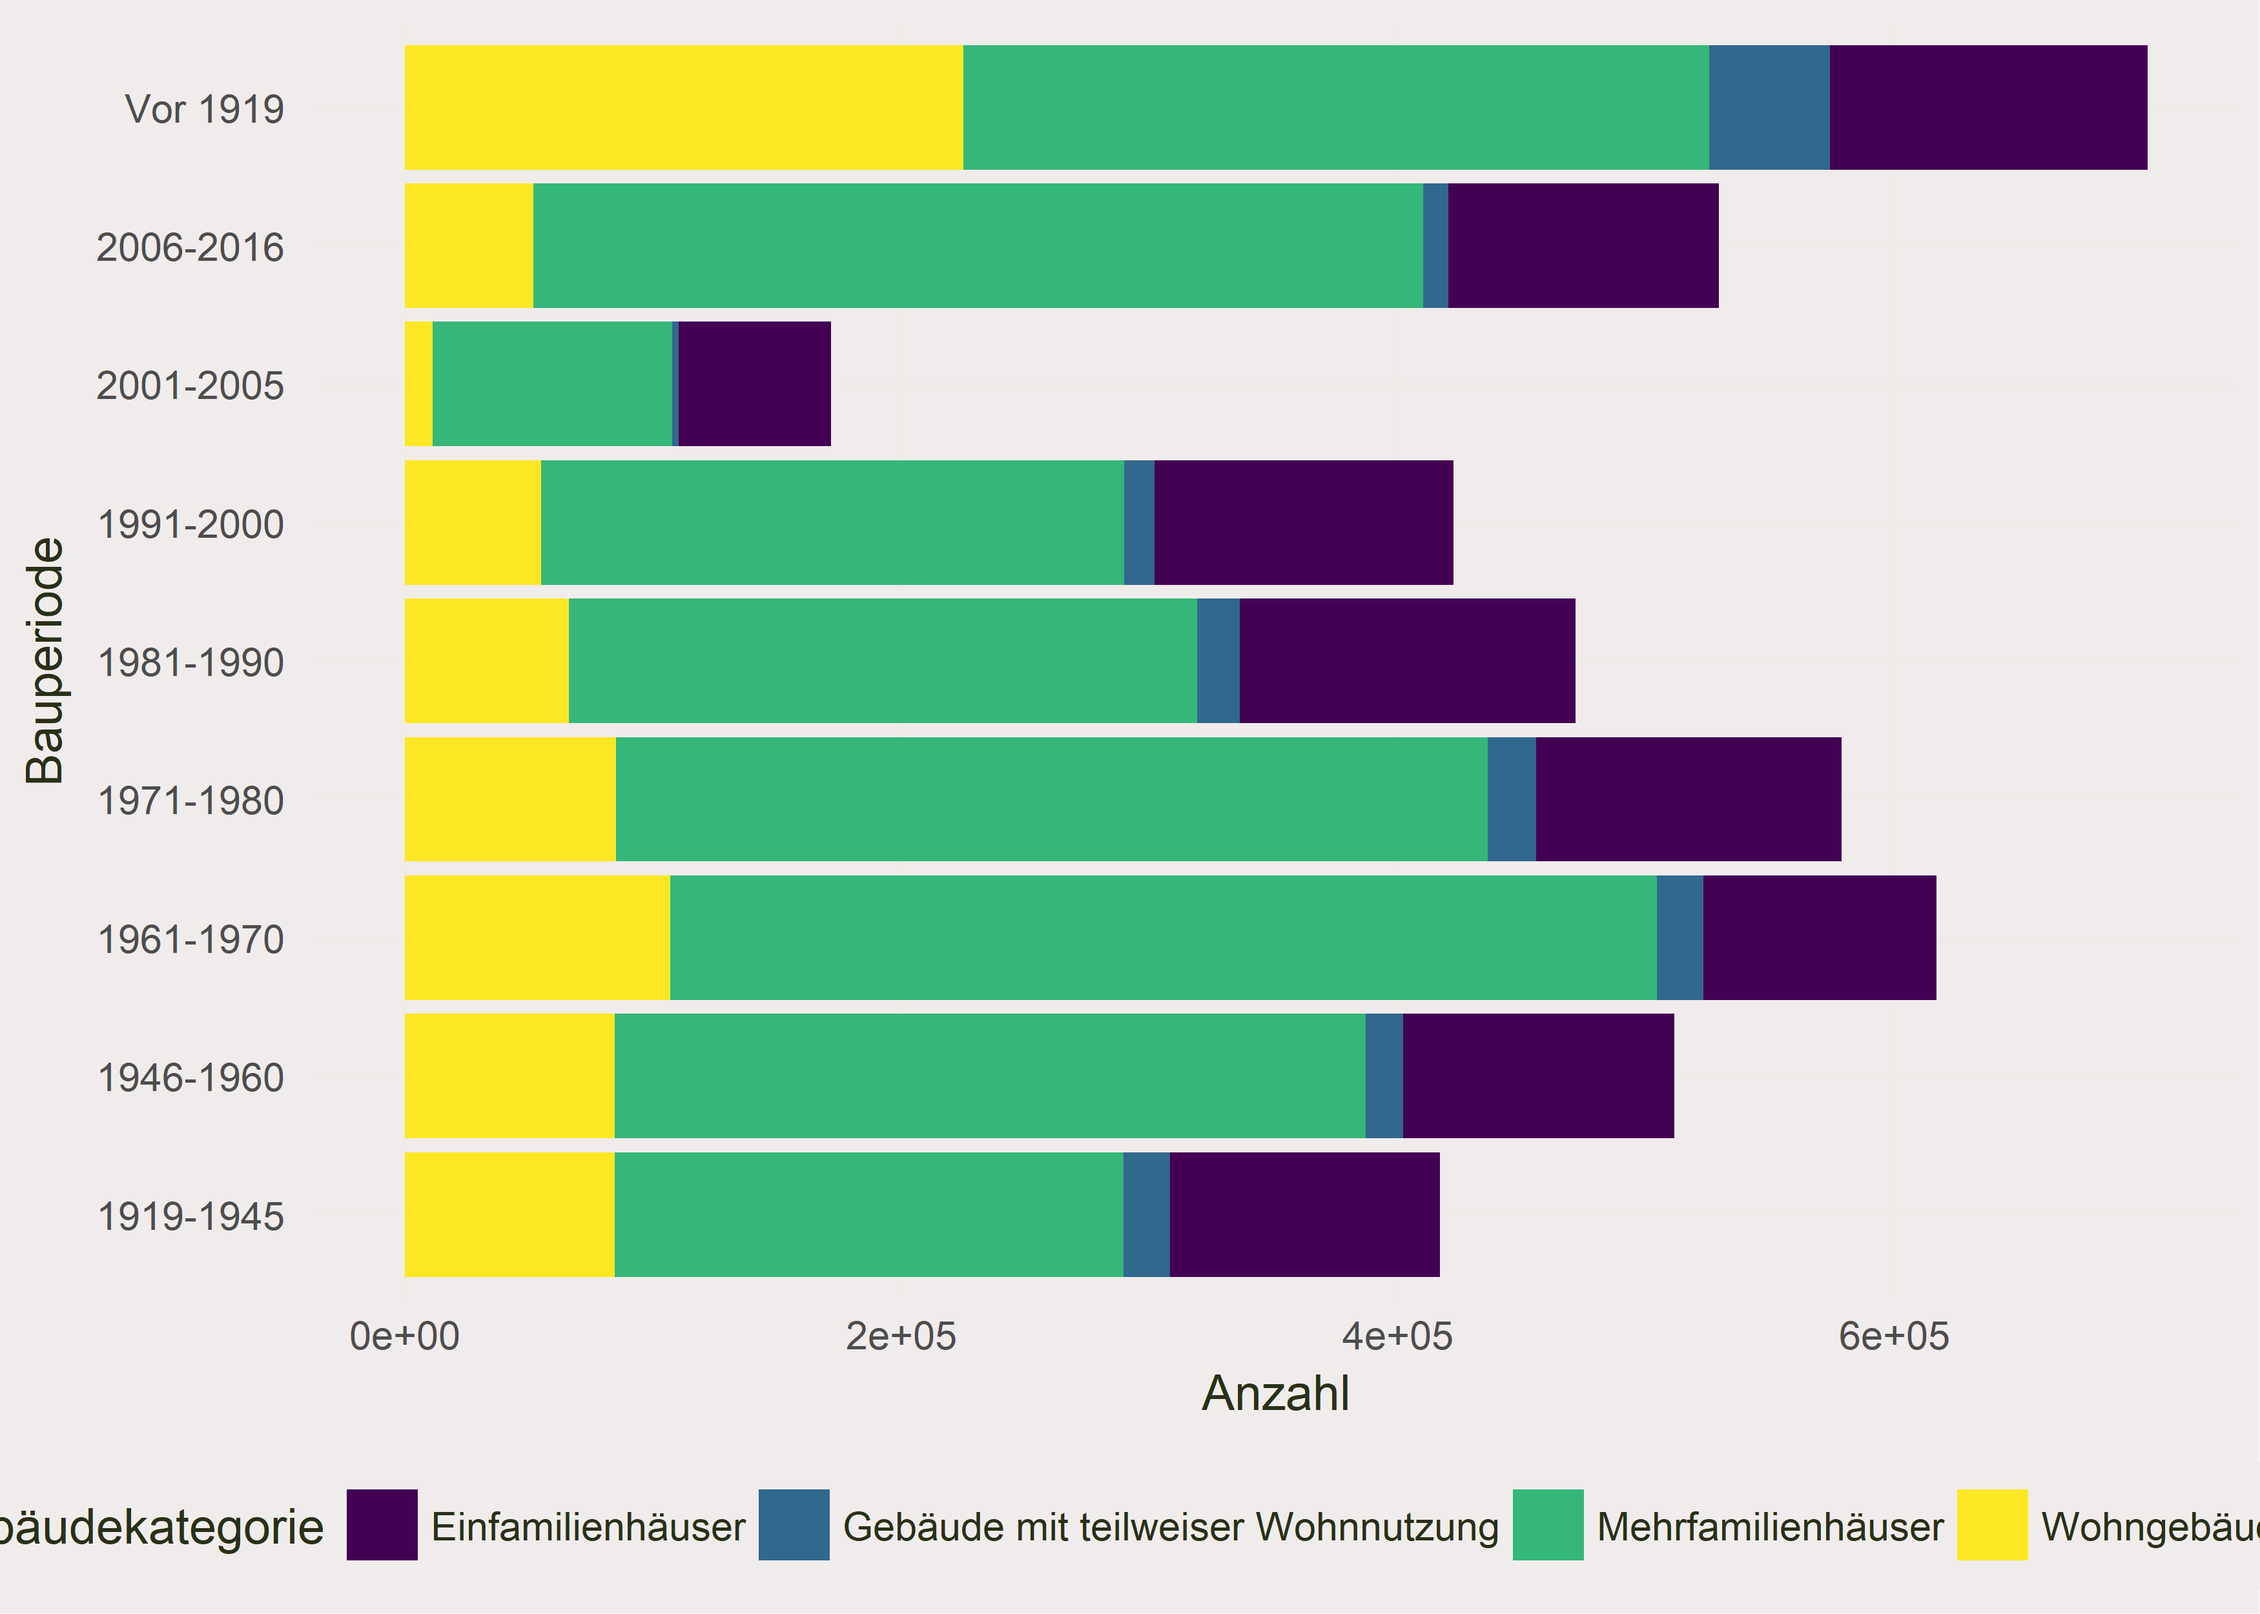
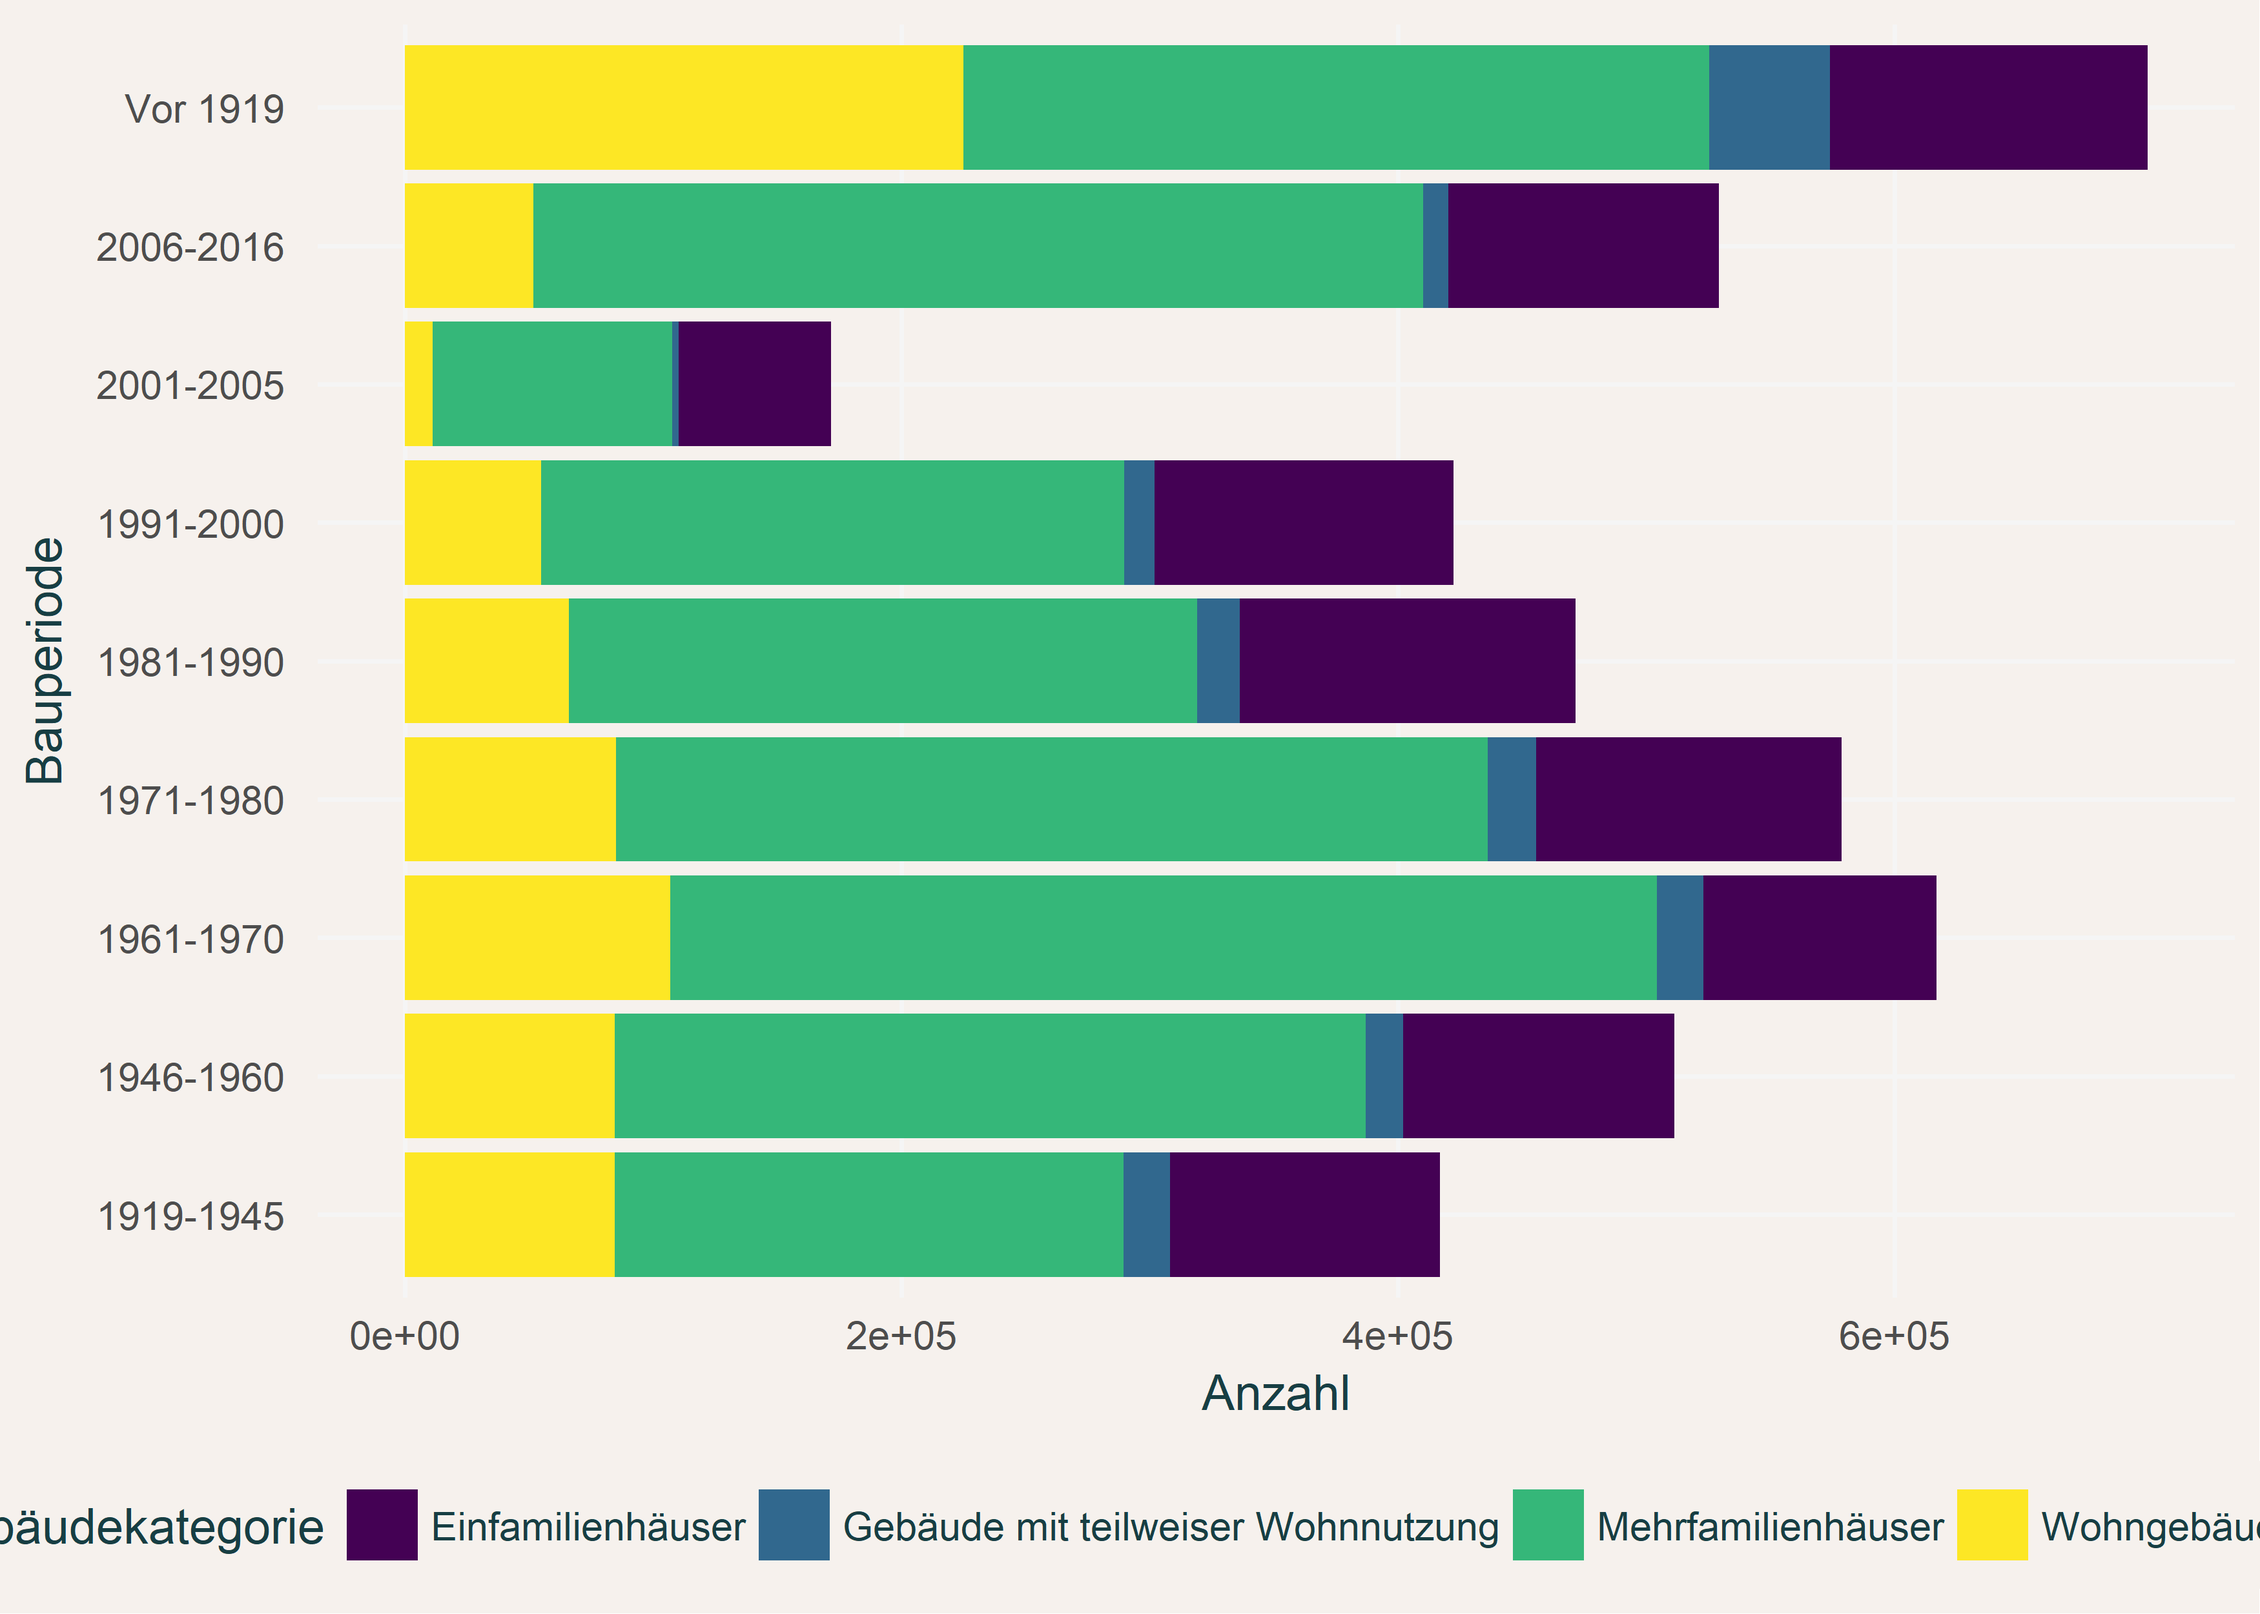
minor

diff --git a/_sass/base/_utility.scss b/_sass/base/_utility.scss
@@ -16,9 +16,9 @@
     }
 }
 
-// .header-txt-shadow {
-//   text-shadow: 1px 1px 2px $text-shadow;
-// }
+.header-txt-shadow {
+  text-shadow: 1px 1px 2px $text-shadow;
+}
 
 // Buttons
 .button {

diff --git a/_posts/2018-04-08-bootstrapping-density-ggplot.md b/_posts/2018-04-08-bootstrapping-density-ggplot.md
@@ -3,8 +3,6 @@ Bootstrapping Density Function and plotting with ggplot
 
 Lorem ipsum dolor sit amet, no minimum complectitur vim, an enim mandamus complectitur mea. Enim noluisse appareat in est, harum graece at nec. Cu est commune pertinacia omittantur. Viris argumentum reprimique at vel, mazim putant accusata cu mel. Propriae sensibus abhorreant eu has, per id partem veritus civibus, solet phaedrum periculis nam no. Sit et idque inani populo. Quod aeque sadipscing cu cum, pro ex malorum alienum suscipit.
 
-Lorem ipsum dolor sit amet, no minimum complectitur vim, an enim mandamus complectitur mea. Enim noluisse appareat in est, harum graece at nec. Cu est commune pertinacia omittantur. Viris argumentum reprimique at vel, mazim putant accusata cu mel. Propriae sensibus abhorreant eu has, per id partem veritus civibus, solet phaedrum periculis nam no. Sit et idque inani populo. Quod aeque sadipscing cu cum, pro ex malorum alienum suscipit.
-
 ``` r
 rm(list = ls())
 
@@ -20,19 +18,17 @@ Functions for later use
 
 Lorem ipsum dolor sit amet, no minimum complectitur vim, an enim mandamus complectitur mea. Enim noluisse appareat in est, harum graece at nec. Cu est commune pertinacia omittantur. Viris argumentum reprimique at vel, mazim putant accusata cu mel. Propriae sensibus abhorreant eu has, per id partem veritus civibus, solet phaedrum periculis nam no. Sit et idque inani populo. Quod aeque sadipscing cu cum, pro ex malorum alienum suscipit.
 
-Lorem ipsum dolor sit amet, no minimum complectitur vim, an enim mandamus complectitur mea. Enim noluisse appareat in est, harum graece at nec. Cu est commune pertinacia omittantur. Viris argumentum reprimique at vel, mazim putant accusata cu mel. Propriae sensibus abhorreant eu has, per id partem veritus civibus, solet phaedrum periculis nam no. Sit et idque inani populo. Quod aeque sadipscing cu cum, pro ex malorum alienum suscipit.
-
 ``` r
 theme_c <- function(...) {
   theme_minimal() +
     theme(
-      text = element_text(color = "#283018"),
+      text = element_text(family = "Source Sans Pro", color = "#173e43"),
       # panel.grid.minor = element_line(color = "#ebebe5", size = 0.2),
-      panel.grid.major = element_line(color = "#ebebe5", size = 0.2),
+      panel.grid.major = element_line(color = "#F5F5F5", size = 0.5),
       panel.grid.minor = element_blank(),
-      plot.background = element_rect(fill = "#f0eceb", color = NA), 
-      panel.background = element_rect(fill = "#f0eceb", color = NA), 
-      legend.background = element_rect(fill = "#f0eceb", color = NA),
+      plot.background = element_rect(fill = "#f6f1ed", color = NA), 
+      panel.background = element_rect(fill = "#f6f1ed", color = NA), 
+      legend.background = element_rect(fill = "#f6f1ed", color = NA),
       panel.border = element_blank(),
       legend.position = "bottom",
       ...
@@ -76,7 +72,8 @@ r %>%
   geom_ribbon(aes(ymin = lower, ymax = upper),
               fill = "grey70", alpha=0.5) +
   geom_line() +
-  theme_c()
+  theme_c() +
+  labs(title = "Density Plot")
 ```
 
 ![]({{ "/assets/plots/get-1.png" | absolute_url }})
